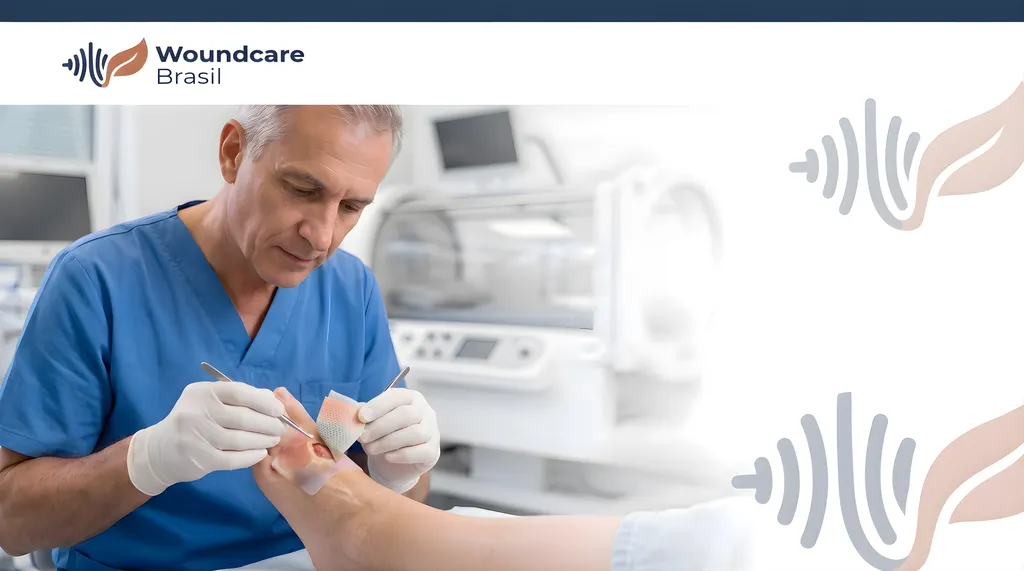
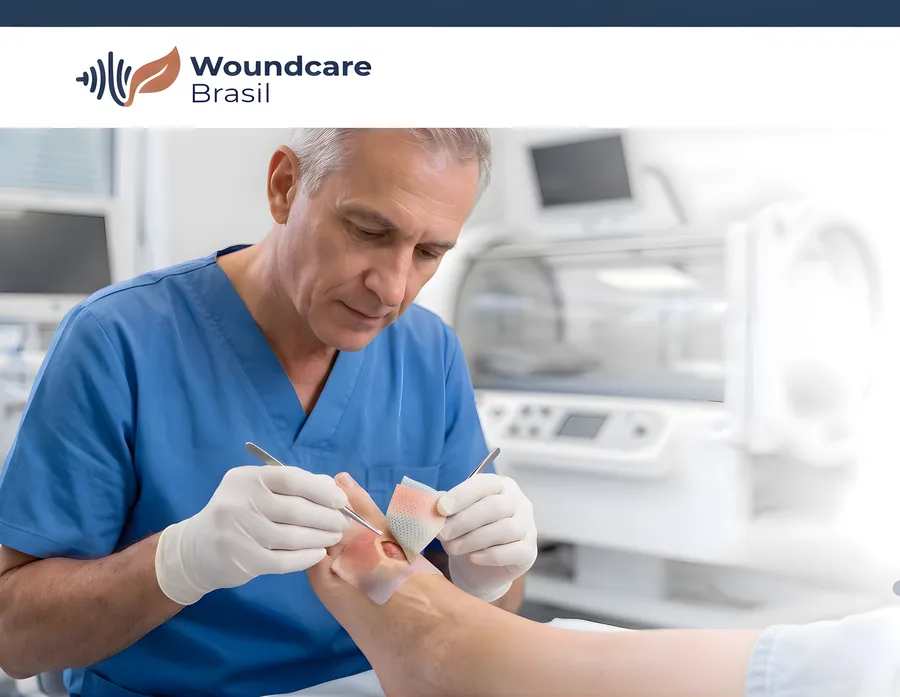
fix(login): arte deixa de ser ampliada e vira peca proporcional
Com `object-cover` preenchendo a tela, a arte era ampliada muito alem do
tamanho natural sempre que a proporcao da janela nao batia com a dela —
em 1280x800 e 1440x900 o rosto ficava enorme e a composicao cortada.
Agora usa `object-contain` com teto de 820px / 76vh: aparece inteira, em
tamanho proporcional, com respiro em volta.

A faixa direita da arte (so marcas d'agua) existia para ficar escondida
atras do painel; sem a sobreposicao ela virava espaco morto a vista,
entao foi recortada do proprio arquivo — a peca fica fechada no que
importa (faixa da marca + cena clinica), passando de 1.79 para 1.29 de
proporcao.

diff --git a/apps/web/src/pages/LoginPage.tsx b/apps/web/src/pages/LoginPage.tsx
@@ -62,25 +62,33 @@ export function LoginPage() {
      * de lg a coluna vira largura total, porque 1/3 de tela estreita nao
      * comportaria o formulario.
      */
-    <div className="relative flex min-h-screen w-full flex-col lg:h-screen lg:overflow-hidden">
-      {/* Ate lg a arte vira um banner no topo (a foto e horizontal e nao caberia
-          ao lado do formulario); de lg em diante ocupa a tela inteira por tras. */}
-      <picture>
-        <source media="(max-width: 640px)" srcSet={fundoWoundcareSm} />
-        <img
-          src={fundoWoundcare}
-          alt=""
-          aria-hidden="true"
-          className="h-44 w-full shrink-0 object-cover object-top sm:h-56
-                     lg:absolute lg:inset-0 lg:h-full lg:object-center"
-        />
-      </picture>
+    <div className="relative flex min-h-screen w-full flex-col bg-slate-50 lg:h-screen lg:flex-row lg:overflow-hidden">
+      {/*
+       * A arte e uma composicao fechada (faixa da marca + cena clinica), entao
+       * usa `contain`: preenchendo a tela com `cover` ela era ampliada muito
+       * alem do tamanho natural em telas baixas (1280x800, 1440x900), deixando
+       * o rosto enorme e cortando a peca. Assim ela aparece inteira, no maior
+       * tamanho que couber, e o espaco em volta e respiro proposital.
+       * Ate lg vira um banner no topo, onde a foto horizontal nao caberia ao lado.
+       */}
+      <div className="flex shrink-0 items-center justify-center lg:h-full lg:min-w-0 lg:flex-1 lg:p-10">
+        <picture className="contents">
+          <source media="(max-width: 640px)" srcSet={fundoWoundcareSm} />
+          <img
+            src={fundoWoundcare}
+            alt=""
+            aria-hidden="true"
+            className="h-44 w-full object-cover object-top sm:h-56
+                       lg:h-auto lg:max-h-[76vh] lg:w-auto lg:max-w-[820px] lg:rounded-2xl
+                       lg:object-contain lg:shadow-[0_18px_50px_rgba(11,17,32,0.13)]"
+          />
+        </picture>
+      </div>
 
       <div
         className="relative flex w-full flex-1 flex-col justify-center bg-white px-6 py-10 sm:px-10
-                   lg:ml-auto lg:h-full lg:w-1/3 lg:min-w-[400px] lg:max-w-[560px] lg:flex-none
-                   lg:overflow-y-auto lg:border-l lg:border-white/60 lg:bg-white/90
-                   lg:shadow-[-16px_0_48px_rgba(11,17,32,0.10)] lg:backdrop-blur-xl"
+                   lg:h-full lg:w-1/3 lg:min-w-[380px] lg:max-w-[520px] lg:flex-none
+                   lg:overflow-y-auto lg:border-l lg:border-slate-200 lg:px-12"
       >
         <div className="mx-auto w-full max-w-sm">
           {/* Marca do software — unico ponto onde o Nuvita aparece nesta tela. */}